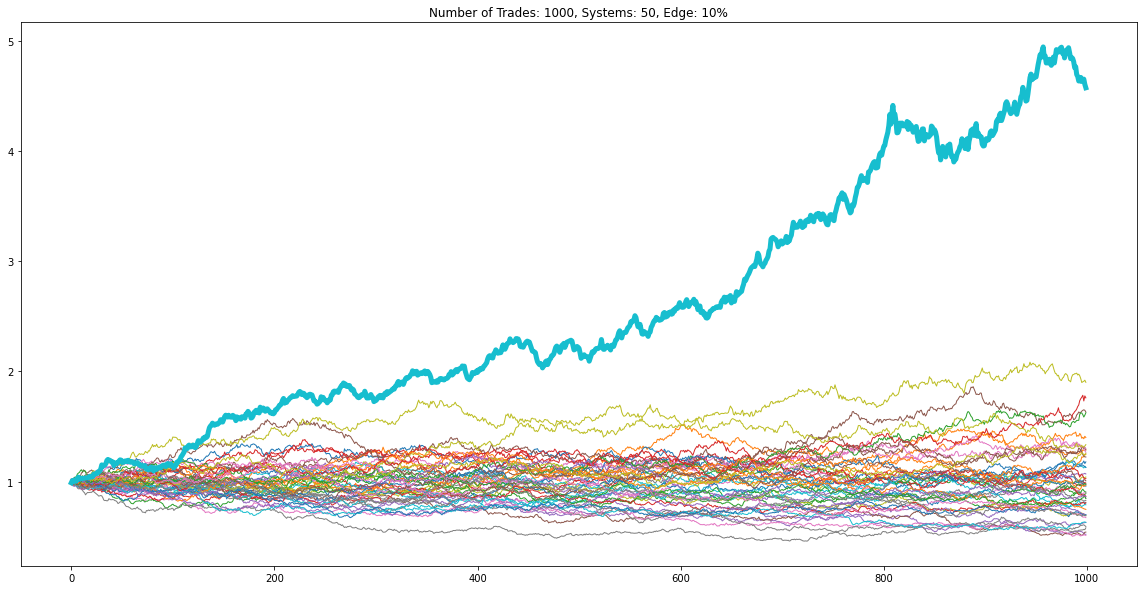
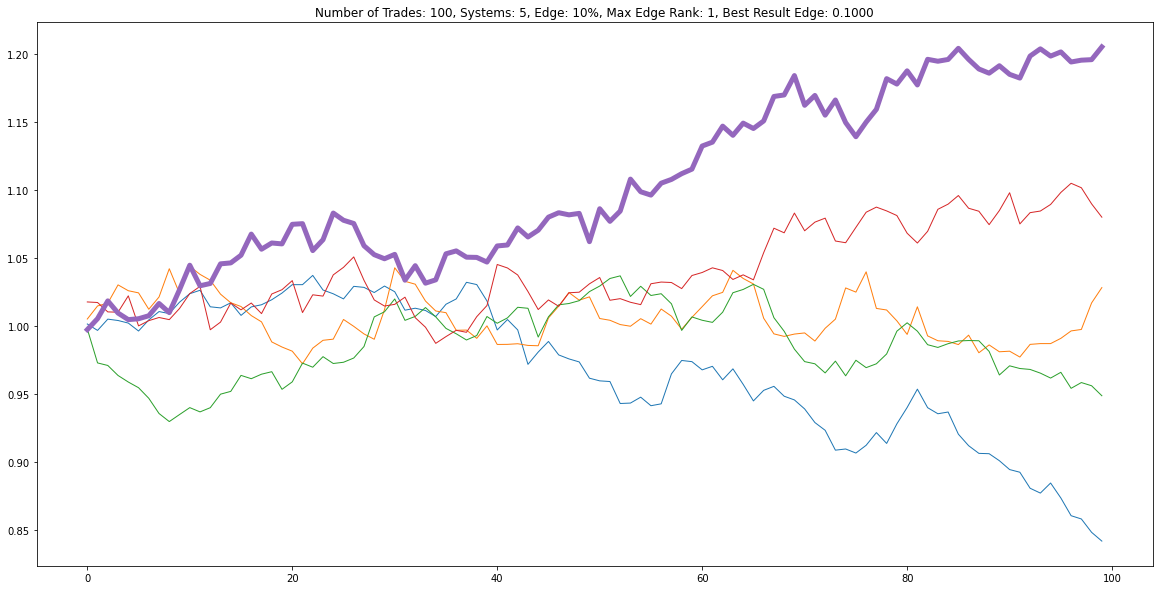
update stats power sim script and doc

diff --git a/stats_power_sim.py b/stats_power_sim.py
@@ -70,11 +70,14 @@ if __name__ == '__main__':
     start_time = timeit.default_timer()
     results = run_multi_sim(args.times, args.systems, args.trades, args.max_edge, args.pnl)
 
-    rank_mean = np.mean(results[:, 0])
-    rank_std = np.std(results[:, 0])
-    edge_mean = np.mean(results[:, 1])
-    edge_std = np.std(results[:, 1])
-    print(f'rank mean: {rank_mean:.2f}, std: {rank_std:.4f}')
+    rank_res = results[:, 0]
+    rank_mean = np.mean(rank_res)
+    rank_std = np.std(rank_res)
+    edge_res = results[:, 1]
+    edge_mean = np.mean(edge_res)
+    edge_std = np.std(edge_res)
+    prob = rank_res[rank_res <= 3].shape[0] / edge_res.shape[0]
+    print(f'rank mean: {rank_mean:.2f}, std: {rank_std:.4f}, top 3 probability: {prob * 100:.2f}%')
     print(f'edge mean: {edge_mean:.4f}, std: {edge_std:.4f}')
 
     elapse = timeit.default_timer() - start_time

diff --git a/docs/statistical_power_in_optimization/README.md b/docs/statistical_power_in_optimization/README.md
@@ -6,13 +6,17 @@
 
 我们在历史数据上进行策略的回测，从统计学的角度看，是根据样本推断总体特征。那么，我们就需要有足够的交易笔数才能认为回测结果是统计显著的，才有参考价值。
 
-下图是两个参数优化的模拟结果，图中最粗的曲线是唯一有效的，胜率为60%，其他都是随机盈亏。
+下图是三个参数优化的模拟结果，图中最粗的曲线是唯一有效的，胜率为60%，其他都是随机盈亏。
 
 ![100 Trades](101.png)
 
-![1000 Trades](102.png)
+![5 Trades](102.png)
 
-可以看到，图一经过了100次交易，最有效的参数组合在总体排名中处于中间位置，而图二经过1000次交易，最优参数组合遥遥领先。因此，在成交笔数不足的情况下，我们有一定概率选不到真正有效的参数。
+![1000 Trades](103.png)
+
+可以看到，图一有50组参数，经过了100次交易，最有效的参数组合在总体排名中处于中间位置。图二只有5组备选参数，经过同样的100次交易，有效参数略占优势。而图三同样有50组参数，经过1000次交易，最优参数组合遥遥领先。因此，在成交笔数相对参数数量不足的情况下，我们有一定概率选不到真正有效的参数。
+
+多次模拟，图一、图二的结果可能会不同，但图三的中的有效策参数终可以显著跑赢其他参数。
 
 ## 统计功效分析
 
@@ -95,11 +99,14 @@ if __name__ == '__main__':
     start_time = timeit.default_timer()
     results = run_multi_sim(args.times, args.systems, args.trades, args.max_edge, args.pnl)
 
-    rank_mean = np.mean(results[:, 0])
-    rank_std = np.std(results[:, 0])
-    edge_mean = np.mean(results[:, 1])
-    edge_std = np.std(results[:, 1])
-    print(f'rank mean: {rank_mean:.2f}, std: {rank_std:.4f}')
+    rank_res = results[:, 0]
+    rank_mean = np.mean(rank_res)
+    rank_std = np.std(rank_res)
+    edge_res = results[:, 1]
+    edge_mean = np.mean(edge_res)
+    edge_std = np.std(edge_res)
+    prob = rank_res[rank_res <= 3].shape[0] / edge_res.shape[0]
+    print(f'rank mean: {rank_mean:.2f}, std: {rank_std:.4f}, top 3 probability: {prob * 100:.2f}%')
     print(f'edge mean: {edge_mean:.4f}, std: {edge_std:.4f}')
 
     elapse = timeit.default_timer() - start_time
@@ -111,15 +118,15 @@ if __name__ == '__main__':
 下边以少年意气篇3.3.8遍历策略参数为例，其参数组合总数为均线长度`range(10, 1000, 10)`共99个参数，标准差`[i / 10 for i in list(np.arange(5, 50, 1))]`共45个参数，两者相乘，共4455个参数，在历史数据上回测的交易笔数为199。策略的最大edge假设为10%。
 
 ```shell
-> python statistical_power_sim.py -n 10000 -s 4455 -t 199 -e 0.1
+> python stats_power_sim.py -n 10000 -s 4455 -t 199 -e 0.1
 
 Run simulation with arguments: Namespace(max_edge=0.1, pnl=0.01, systems=4455, times=10000, trades=199)
-rank mean: 331.27, std: 306.1791
-edge mean: 0.0920, std: 0.0076
-done, takes 12.73s
+rank mean: 332.31, std: 320.6291, top 3 probability: 1.49%
+edge mean: 0.0918, std: 0.0079
+done, takes 96.29s
 ```
 
-经过10000次模拟之后，可以看到最优参数的排名平均在331名，很难被选到，但是选到的参数大概率可以有9%的edge。 
+经过10000次模拟之后，可以看到最优参数的排名平均在332名，进入前三的概率只有1%，很难被选到，但是选到的参数大概率可以有9%的edge。 
 
 模拟并不能确定这个策略有效，因为我们模拟的假设是策略存在10%的edge，以及策略的edge均匀分布，这个假设可能不成立。
 
